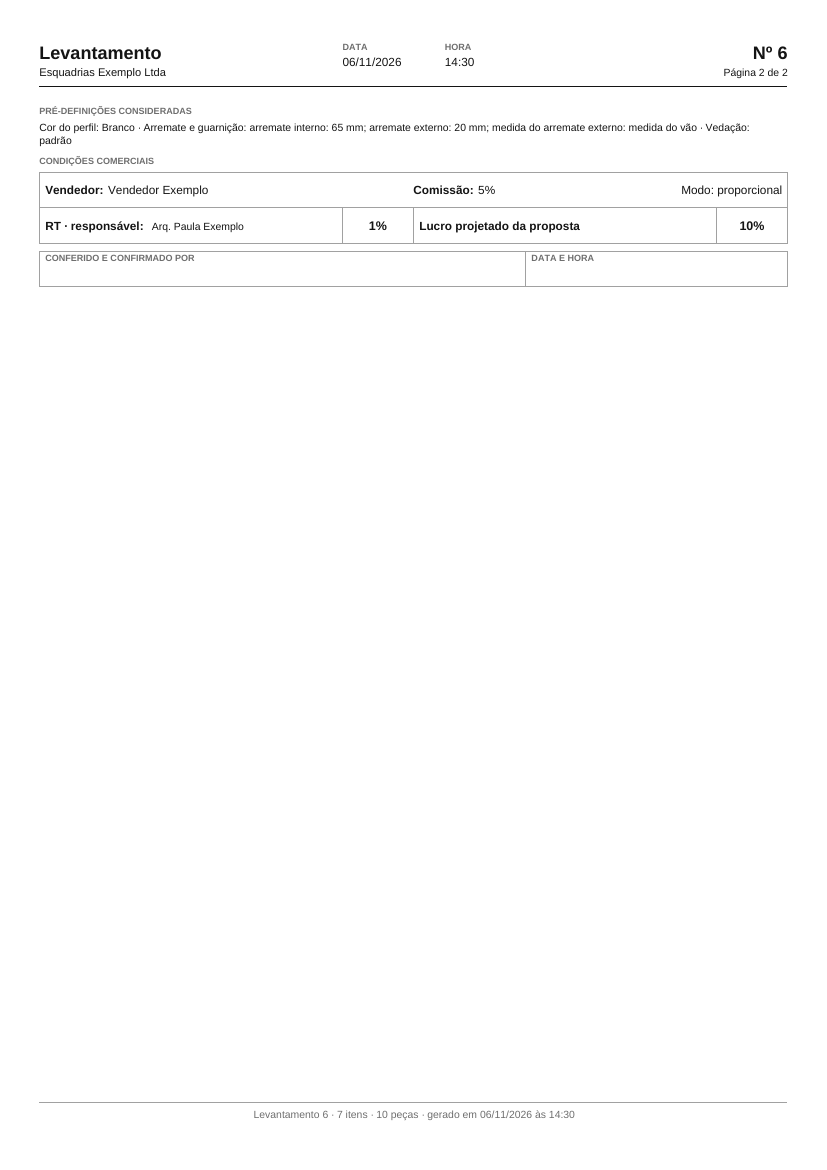
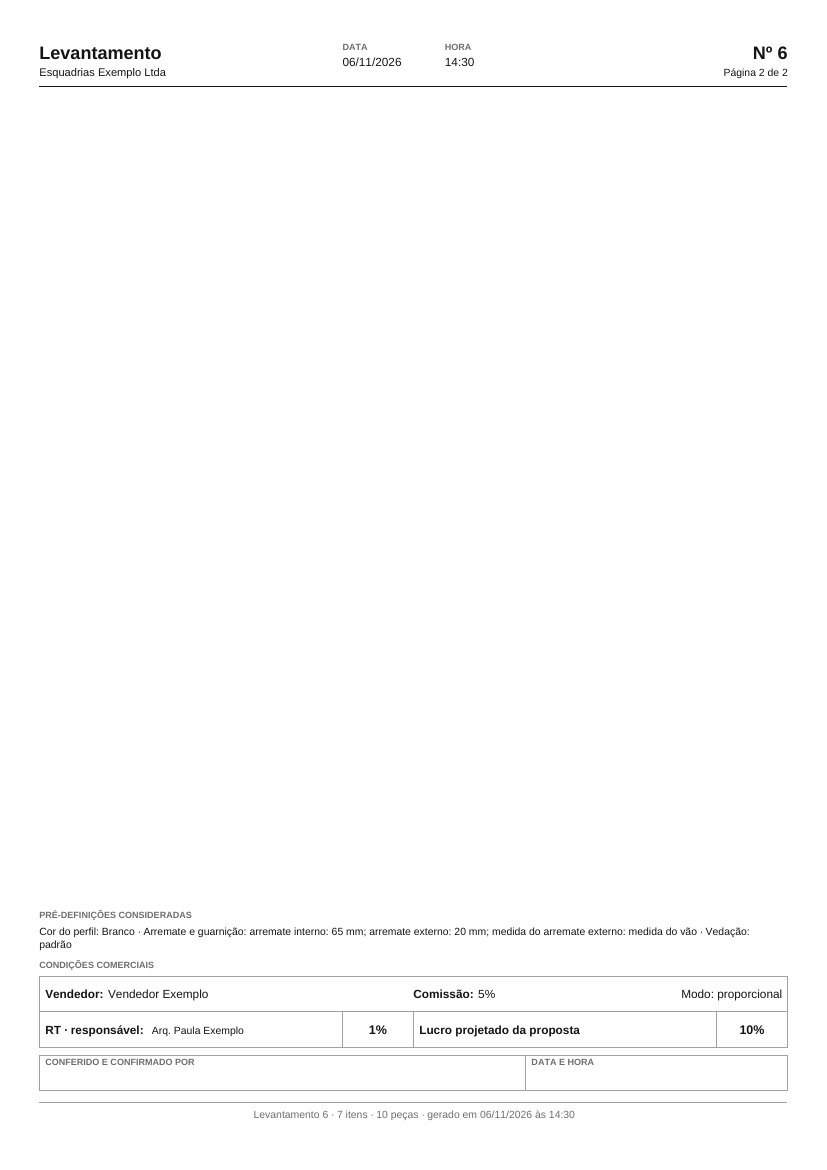
feat: o rodapé ancorado no pé da última folha — desenhado de baixo para cima, o espaço livre entre o último item e ele
Decisão do dono do produto, 07/11/2026, como o margin-top:auto do mockup: as pré-definições
consideradas, as condições comerciais e o "conferido e confirmado por" terminam onde começa a
linha de identificação, a 10 mm da margem inferior. Os itens continuam do topo. A paginação não
muda: o rodapé precisa caber inteiro na última folha, e, não cabendo, nasce uma folha só para ele.

O exemplo foi regravado: o rodapé na folha 2 vai de 228,2 mm a 277 mm do topo.
Mutações A1 a A5: 67 de 67 mortas.

Claude-Session: https://claude.ai/code/session_011FCFdoY7yDCMrbDtJssjJ1

diff --git a/src/utils/__tests__/folha-do-levantamento.test.ts b/src/utils/__tests__/folha-do-levantamento.test.ts
@@ -327,6 +327,74 @@ describe('(III-b) A DENSIDADE DO MOCKUP (dono do produto, 07/11/2026): 794 px = 
         expect(fluxo.match(/ re\nf\n/g)?.length).toBe(p.paginas.filter((pg) => pg.itens.length).length)
     })
 
+    describe('O RODAPÉ ANCORADO NO PÉ da última folha (dono do produto, 07/11/2026): desenhado de baixo para cima, o espaço livre ENTRE o último item e ele', () => {
+        const mmEmPt = 72 / 25.4
+        const PE = FOLHA.altura - FOLHA.margem - 10 // onde o rodapé termina: a linha de identificação ocupa os 10 mm de baixo
+        const gerar = (d: DadosDaFolha) => {
+            const r = gerarFolhaDoLevantamento(d)
+            if ('recusas' in r) throw new Error(r.recusas.join(' '))
+            return textoDoPdf(r.pdf)
+        }
+        /** A base do rodapé, em mm do topo da folha: a do retângulo "conferido e confirmado por", o último que o rodapé desenha. */
+        const baseDoRodape = (fluxo: string) => {
+            const antes = fluxo.slice(0, fluxo.indexOf('(CONFERIDO E CONFIRMADO POR)'))
+            const m = [...antes.matchAll(/([\d.-]+) ([\d.-]+) ([\d.-]+) ([\d.-]+) re\nS\n/g)].pop()!
+            return FOLHA.altura - (Number(m[2]) + Number(m[4])) / mmEmPt
+        }
+        /** A linha de base de um texto desenhado, em mm do topo da folha. */
+        const linhaDoTexto = (fluxo: string, texto: string) => {
+            const antes = fluxo.slice(0, fluxo.indexOf(`(${texto}) Tj`))
+            const m = [...antes.matchAll(/([\d.-]+) ([\d.-]+) Td\n/g)].pop()!
+            return FOLHA.altura - Number(m[2]) / mmEmPt
+        }
+        /** A base das bordas externas dos itens (preta, 0,5 pt), em mm do topo, na ordem do fluxo. */
+        const basesDosItens = (fluxo: string) => {
+            let cor = '', largura = ''
+            const bases: number[] = []
+            for (const m of fluxo.matchAll(/([\d.]+) G\n|([\d.]+) w\n|([\d.-]+) ([\d.-]+) ([\d.-]+) ([\d.-]+) re\nS\n/g)) {
+                if (m[1] !== undefined) cor = m[1]
+                else if (m[2] !== undefined) largura = m[2]
+                else if (cor === '0.' && largura === '0.5') bases.push(FOLHA.altura - (Number(m[4]) + Number(m[6])) / mmEmPt)
+            }
+            return bases
+        }
+
+        it('com um item na mesma folha: o rodapé termina no pé (a 10 mm da margem, onde começa a linha de identificação), o item fica no topo, o branco no meio', () => {
+            const d = dados({ itens: [sem] })
+            const p = plano([sem])
+            expect(p.paginas).toEqual([{ cliente: true, itens: [0], rodape: true }])
+            const fluxo = gerar(d)
+            expect(baseDoRodape(fluxo)).toBeCloseTo(PE, 3)
+            // o rodapé começa onde a altura dele, medida pela paginação, manda: de baixo para cima
+            expect(linhaDoTexto(fluxo, 'PRÉ-DEFINIÇÕES CONSIDERADAS')).toBeCloseTo(PE - p.alturas.rodape + 3 + 2, 3)
+            // o item continua no topo: logo depois do cliente e dos títulos da tabela
+            const [fimDoItem] = basesDosItens(fluxo)
+            expect(fimDoItem).toBeCloseTo(FOLHA.margem + 14 + p.alturas.cliente + p.alturas.cabecalhoDasColunas + p.alturas.itens[0] - ESPACO_ENTRE_ITENS, 3)
+            // e o espaço livre fica ENTRE o item e o rodapé — tudo o que sobra da folha
+            const livre = p.alturas.util - p.alturas.cliente - p.alturas.cabecalhoDasColunas - p.alturas.itens[0] - p.alturas.rodape - p.alturas.linhaDeIdentificacao
+            expect(livre).toBeGreaterThan(100)
+            expect((PE - p.alturas.rodape) - (fimDoItem + ESPACO_ENTRE_ITENS)).toBeCloseTo(livre, 3)
+        })
+
+        it('o rodapé termina no mesmo ponto com 1 ou 3 itens: não sobe atrás do último item', () => {
+            const um = gerar(dados({ itens: [sem] }))
+            const tres = gerar(dados({ itens: [1, 2, 3].map((ordem) => ({ ...sem, ordem })) }))
+            expect(baseDoRodape(tres)).toBeCloseTo(baseDoRodape(um), 3)
+            expect(linhaDoTexto(tres, 'CONDIÇÕES COMERCIAIS')).toBeCloseTo(linhaDoTexto(um, 'CONDIÇÕES COMERCIAIS'), 3)
+            expect(basesDosItens(tres)).toHaveLength(3)
+        })
+
+        it('no exemplo, a folha só do rodapé (a paginação não mudou): o rodapé no pé da folha 2, não no topo dela', () => {
+            const p = plano(ITENS_DE_EXEMPLO)
+            expect(p.paginas.map((pg) => [pg.itens.length, pg.rodape])).toEqual([[7, false], [0, true]])
+            const fluxo = gerar(dados({ itens: ITENS_DE_EXEMPLO }))
+            expect(baseDoRodape(fluxo)).toBeCloseTo(PE, 3)
+            expect(linhaDoTexto(fluxo, 'PRÉ-DEFINIÇÕES CONSIDERADAS')).toBeGreaterThan(FOLHA.altura / 2)
+            // a linha de identificação abaixo do rodapé, sem encostar nele
+            expect(linhaDoTexto(fluxo, linhaDeIdentificacao(dados({ itens: ITENS_DE_EXEMPLO })))).toBeGreaterThan(PE)
+        })
+    })
+
     it('as medidas: Fig. 15,3 mm (58 px), faixa 12,2 mm (46 px), linha auxiliar 4,2 mm (16 px)', () => {
         expect(COLUNAS.fig).toBeCloseTo(15.34, 2)
         expect(ALTURA_DA_FAIXA).toBeCloseTo(12.17, 2)

diff --git a/src/lib/atendimentos-ia/folha-do-levantamento.ts b/src/lib/atendimentos-ia/folha-do-levantamento.ts
@@ -553,6 +553,12 @@ function partesDoRodape(doc: Doc, d: DadosDaFolha) {
     return { pre, alturaDasPre, responsavel, alturaDaRt, total }
 }
 const alturaDoRodape = (doc: Doc, d: DadosDaFolha) => partesDoRodape(doc, d).total
+/**
+ * O RODAPÉ ANCORADO NO PÉ da última folha (dono do produto, 07/11/2026, como o `margin-top:auto` do mockup): é desenhado de baixo para cima e
+ * termina onde começa a linha de identificação, a 10 mm da margem inferior. Os itens continuam do topo; o espaço livre fica ENTRE o último item e o
+ * rodapé. A paginação não muda: o rodapé precisa caber inteiro na última folha, e, não cabendo, nasce uma folha só para ele.
+ */
+export const topoDoRodape = (altura: number) => FIM_DO_CORPO - ALTURA_DA_LINHA_DE_IDENTIFICACAO - altura
 
 function rotulo(doc: Doc, texto: string, x: number, y: number) {
     doc.setFont('helvetica', 'bold'); doc.setFontSize(ROTULO); doc.setTextColor(CINZA)
@@ -805,8 +811,8 @@ export function gerarFolhaDoLevantamento(d: DadosDaFolha): FolhaGerada | FolhaRe
         if (p.cliente) y = blocoDoCliente(doc, dados, y)
         if (p.itens.length) y = cabecalhoDasColunas(doc, y)
         for (const i of p.itens) y = blocoDoItem(doc, itens[i], y)
-        // o rodapé e a linha de identificação no pé, só na última folha
-        if (p.rodape) { desenharRodape(doc, dados, y); desenharLinhaDeIdentificacao(doc, dados) }
+        // o rodapé e a linha de identificação, só na última folha, ANCORADOS NO PÉ: o espaço que sobra fica entre o último item e o rodapé
+        if (p.rodape) { desenharRodape(doc, dados, topoDoRodape(alturaDoRodape(doc, dados))); desenharLinhaDeIdentificacao(doc, dados) }
     })
     doc.setProperties({ title: `Levantamento ${d.numero} — ${d.cliente.nome}`, creator: 'Precifica Certo' })
     // o mesmo levantamento gerado no mesmo instante dá os mesmos bytes (o exemplo em docs/levantamento/ é conferido assim)

diff --git a/scripts/mutacoes/folha-do-levantamento.py b/scripts/mutacoes/folha-do-levantamento.py
@@ -56,7 +56,7 @@ M = [
  ('N12 a linha do motor de volta em linha própria', "    doc.setTextColor(PRETO)\n    cx += COLUNAS.item\n", "    if (i.linha) doc.text(`Linha: ${i.linha}`, cx + 1.5, y + ALTURA_DA_FAIXA - 1)\n    doc.setTextColor(PRETO)\n    cx += COLUNAS.item\n"),
  ('Q1 os itens contíguos, sem o respiro', 'const ESPACO_ENTRE_ITENS = 2.5\n', 'const ESPACO_ENTRE_ITENS = 0\n'),
  ('Q2 o pé fora da conta da última folha', '    const fim = a.rodape + a.linhaDeIdentificacao\n', '    const fim = a.rodape\n'),
- ('Q3 o pé desenhado em toda folha', '        if (p.rodape) { desenharRodape(doc, dados, y); desenharLinhaDeIdentificacao(doc, dados) }', '        if (p.rodape) desenharRodape(doc, dados, y)\n        desenharLinhaDeIdentificacao(doc, dados)'),
+ ('Q3 o pé desenhado em toda folha', '        if (p.rodape) { desenharRodape(doc, dados, topoDoRodape(alturaDoRodape(doc, dados))); desenharLinhaDeIdentificacao(doc, dados) }', '        if (p.rodape) desenharRodape(doc, dados, topoDoRodape(alturaDoRodape(doc, dados)))\n        desenharLinhaDeIdentificacao(doc, dados)'),
  ('Q4 o pé reservado em toda folha', 'const FIM_DO_CORPO = FOLHA.altura - FOLHA.margem\n', 'const FIM_DO_CORPO = FOLHA.altura - FOLHA.margem - ALTURA_DA_LINHA_DE_IDENTIFICACAO\n'),
  ('Q5 o cliente com o rótulo em cima (8,17 mm)', 'const LINHA_DO_CLIENTE = 27.4 / 4\n', 'const LINHA_DO_CLIENTE = 8.17\n'),
  ('Q6 o valor do cliente cortado numa linha', '    LINHA_DO_CLIENTE + (linhasDoCampo(doc, nome, texto, largura).length - 1) * CORPO * ENTRELINHA', '    LINHA_DO_CLIENTE'),
@@ -69,6 +69,11 @@ M = [
  ('B5 a borda externa só na faixa', '    doc.rect(x, y, CONTEUDO, altura)\n    doc.setDrawColor(TRACO); doc.setLineWidth(0.2)\n', '    doc.rect(x, y, CONTEUDO, ALTURA_DA_FAIXA)\n    doc.setDrawColor(TRACO); doc.setLineWidth(0.2)\n'),
  ('B6 fundo nas células do item', '    tracoInterno(doc); doc.rect(x, y, w, h)\n', "    tracoInterno(doc); doc.setFillColor(245, 245, 245); doc.rect(x, y, w, h, 'FD')\n"),
  ('B7 a figura sem o traço interno', '    tracoInterno(doc)\n    // a coluna Fig.', '    doc.setDrawColor(TRACO)\n    // a coluna Fig.'),
+ ('A1 o rodapé logo depois do último item', 'desenharRodape(doc, dados, topoDoRodape(alturaDoRodape(doc, dados)))', 'desenharRodape(doc, dados, y)'),
+ ('A2 o rodapé encostado na margem, sobre a linha de identificação', 'export const topoDoRodape = (altura: number) => FIM_DO_CORPO - ALTURA_DA_LINHA_DE_IDENTIFICACAO - altura', 'export const topoDoRodape = (altura: number) => FIM_DO_CORPO - altura'),
+ ('A3 o rodapé no topo da última folha', 'export const topoDoRodape = (altura: number) => FIM_DO_CORPO - ALTURA_DA_LINHA_DE_IDENTIFICACAO - altura', 'export const topoDoRodape = (altura: number) => TOPO_DO_CORPO + 0 * altura'),
+ ('A4 o rodapé ancorado com 1 mm de folga a mais', 'export const topoDoRodape = (altura: number) => FIM_DO_CORPO - ALTURA_DA_LINHA_DE_IDENTIFICACAO - altura', 'export const topoDoRodape = (altura: number) => FIM_DO_CORPO - ALTURA_DA_LINHA_DE_IDENTIFICACAO - altura - 1'),
+ ('A5 a paginação reserva o rodapé em toda folha', '    let livre = a.util - a.cliente\n', '    let livre = a.util - a.cliente - a.rodape\n'),
 ]
 orig = open(ARQ, encoding='utf-8').read()
 vivas = []

diff --git a/docs/levantamento/README.md b/docs/levantamento/README.md
@@ -3,7 +3,7 @@
 - `exemplo-levantamento.pdf`: o arquivo como o agente o envia, gerado por `gerarFolhaDoLevantamento`
   (`src/lib/atendimentos-ia/folha-do-levantamento.ts`) a partir de `src/utils/__tests__/fixtures/folha-de-exemplo.ts`.
 - `exemplo-levantamento-folha-1.png` e `-2.png`: as duas folhas do mesmo PDF, para conferir sem abrir o arquivo — os 7 itens na folha 1;
-  o rodapé e a linha de identificação na folha 2.
+  o rodapé e a linha de identificação na folha 2, ANCORADOS NO PÉ dela (o rodapé termina a 20 mm da borda de baixo; o branco fica em cima).
 
 A densidade é a do mockup aprovado (dono do produto, 07/11/2026; 794 px = 210 mm): a faixa do item com 12,2 mm, cada linha auxiliar com 4,2 mm
 por linha de texto, e a coluna Fig. com 15,3 mm, da altura do item inteiro. Item sem VARIÁVEIS: 24,9 mm; com: 29,1 mm. Cada item é uma CÉLULA fechada: borda externa preta de 0,5 pt, divisões internas
@@ -12,6 +12,11 @@ cinza claro de 0,25 pt, sem fundo, e 2,5 mm de respiro até a próxima.
 A conta da folha (dono do produto, 07/11/2026): margens de 10 mm, cabeçalho de 14 mm, bloco do cliente de 27,4 mm com rótulo e valor na
 mesma linha e 4 mm de respiro, faixa de títulos da tabela de 4,5 mm, e a linha de identificação (10 mm) só na última folha. Cabem 8 itens
 sem VARIÁVEIS na folha 1 e 9 nas seguintes (7 e 8 com VARIÁVEIS).
+
+O rodapé (pré-definições consideradas, condições comerciais, conferido e confirmado por) e a linha de identificação ficam ANCORADOS NO PÉ
+da última folha (dono do produto, 07/11/2026, como o `margin-top:auto` do mockup): o rodapé é desenhado de baixo para cima e termina onde
+começa a linha de identificação. Os itens começam do topo, e o espaço livre fica entre o último item e o rodapé. A paginação não muda: o
+rodapé precisa caber inteiro na última folha, e, não cabendo, nasce uma folha só para ele.
 
 **Os dados são fictícios.** Nenhum cliente real sai do tenant. As tipologias, as descrições e as linhas são as do motor da Wolff
 (`fdff3386…`), medidas em 06/11/2026.
